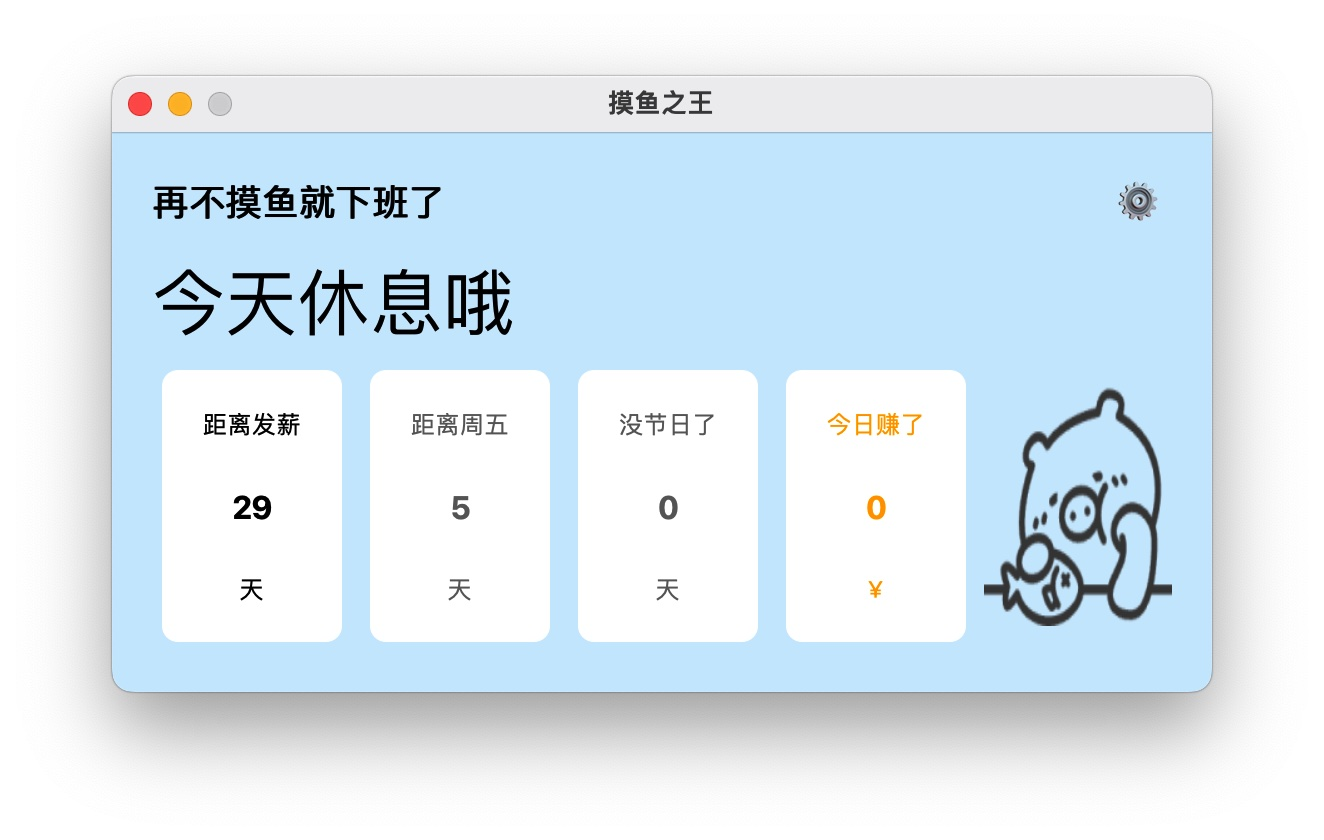
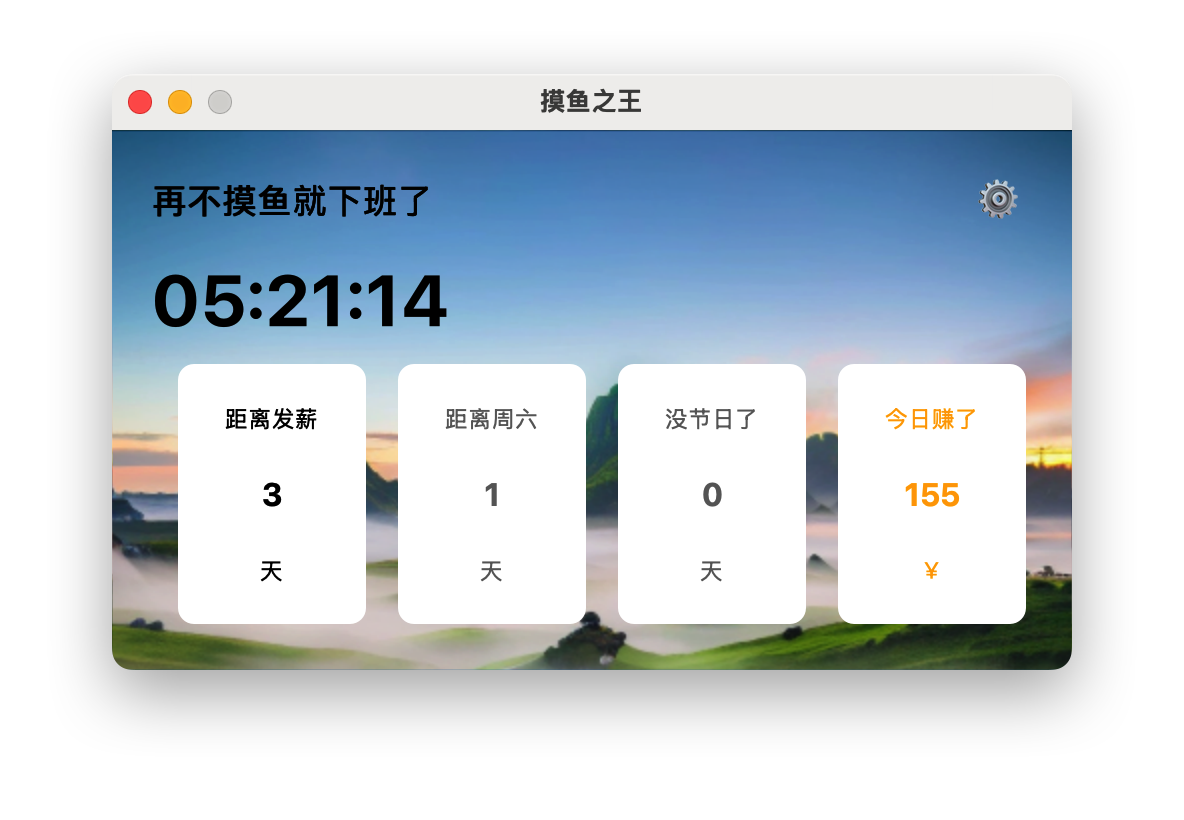
优化UI

diff --git a/MainPage.py b/MainPage.py
@@ -4,7 +4,8 @@ from datetime import datetime, date
 from PySide6 import QtWidgets, QtCore, QtGui
 from PySide6.QtCore import QTime
 from PySide6.QtGui import QIntValidator
-from PySide6.QtWidgets import QApplication, QLabel, QPushButton, QVBoxLayout, QHBoxLayout, QWidget, QStyle
+from PySide6.QtWidgets import QApplication, QLabel, QPushButton, QVBoxLayout, QHBoxLayout, QWidget, QStyle, \
+    QSystemTrayIcon, QMenu
 from dateutil.relativedelta import relativedelta
 import requests
 from requests import Response
@@ -18,8 +19,24 @@ class TaskDayWork(QtWidgets.QWidget):
         self.req = requests
 
         self.setWindowTitle("摸鱼之王")
-        self.setFixedSize(550, 280)
-        self.setStyleSheet("background-color: rgb(237, 237, 236);")
+        self.setFixedSize(480, 270)
+        # self.setStyleSheet("background-color: rgb(237, 237, 236);")
+
+        background_confing_file: str = './_internal/background.png'
+        logo_path = Path(background_confing_file)
+        if logo_path.exists():
+            background_confing_file: str = background_confing_file
+        else:
+            background_confing_file: str = './background.png'
+
+        pixmap = QtGui.QPixmap(background_confing_file)
+        scaled_pixmap = pixmap.scaled(self.size(),
+                                      QtCore.Qt.AspectRatioMode.KeepAspectRatio,
+                                      QtCore.Qt.TransformationMode.SmoothTransformation)
+        palette = self.palette()
+        palette.setBrush(QtGui.QPalette.ColorRole.Window, QtGui.QBrush(scaled_pixmap))
+        self.setPalette(palette)
+        self.setAutoFillBackground(True)
 
         confing_file: str = './_internal/config.ini'
         logo_path = Path(confing_file)
@@ -29,6 +46,12 @@ class TaskDayWork(QtWidgets.QWidget):
             image_path: str = './config.ini'
 
         self.settings = QtCore.QSettings(image_path, QtCore.QSettings.defaultFormat().IniFormat)
+
+        # 设置窗口属性（可选：使窗口不显示在任务栏）
+        self.setWindowFlags(QtCore.Qt.WindowType.Tool)
+
+        # 创建系统托盘
+        self.create_system_tray_icon()
 
         self.fish_money = 45.50
         self.days_until_friday = 0
@@ -124,7 +147,7 @@ class TaskDayWork(QtWidgets.QWidget):
         else:
             self.cat_image.setText("图片加载失败")
             self.cat_image.setStyleSheet("color: red; font-size: 14px;")
-        status_container.addWidget(self.cat_image)
+        # status_container.addWidget(self.cat_image)
 
         main_layout.addLayout(status_container)
 
@@ -138,7 +161,7 @@ class TaskDayWork(QtWidgets.QWidget):
             background-color: white;
             border-radius: 8px;
             padding: 8px;
-            margin: 5px;
+            margin: 3px;
         """)
 
         card_widget.setFixedWidth(100)
@@ -562,6 +585,43 @@ class TaskDayWork(QtWidgets.QWidget):
         dialog.setWindowTitle("提示")
         dialog.setText("操作成功！请重启程序!")
         dialog.exec()
+
+    def create_system_tray_icon(self):
+        """创建系统托盘图标"""
+        self.tray_icon = QSystemTrayIcon(self)
+
+        # 可以使用内置标准图标
+        self.tray_icon.setIcon(self.style().standardIcon(QStyle.StandardPixmap.SP_ComputerIcon))
+        # 或者使用自定义图标
+        # self.tray_icon.setIcon(QIcon(":/icons/app_icon.png"))
+
+        tray_menu = QMenu()
+        show_action = tray_menu.addAction("显示主窗口")
+        exit_action = tray_menu.addAction("退出")
+
+        show_action.triggered.connect(self.show_normal)
+        exit_action.triggered.connect(QApplication.instance().quit)
+
+        self.tray_icon.setContextMenu(tray_menu)
+        self.tray_icon.activated.connect(self.on_tray_activated)
+        self.tray_icon.show()
+
+    def on_tray_activated(self, reason):
+        """处理托盘图标点击"""
+        if reason == QSystemTrayIcon.ActivationReason.Trigger:
+            if self.isVisible() and not self.isMinimized():
+                self.hide()
+            else:
+                self.show_normal()
+
+    def show_normal(self):
+        """正常显示窗口"""
+        self.show()
+        if self.isMinimized():
+            self.setWindowState(QtCore.Qt.WindowState.WindowNoState)  # 恢复正常窗口状态
+        self.raise_()
+        self.activateWindow()
+        self.setFocus()  # 设置焦点到窗口
 
 
 if __name__ == '__main__':
